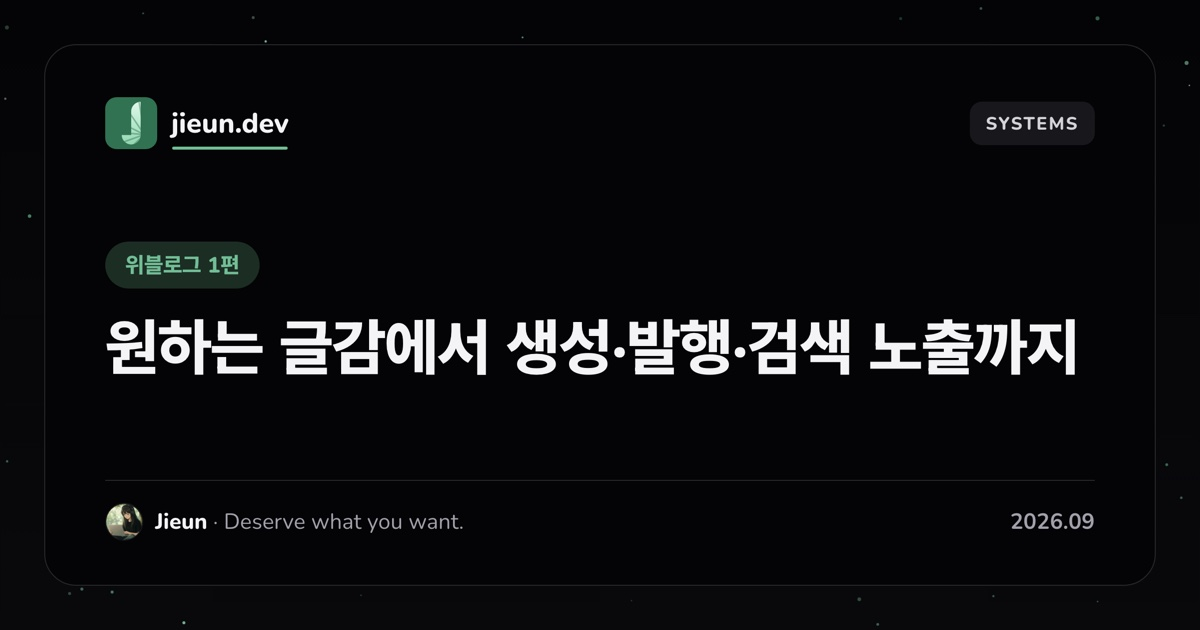
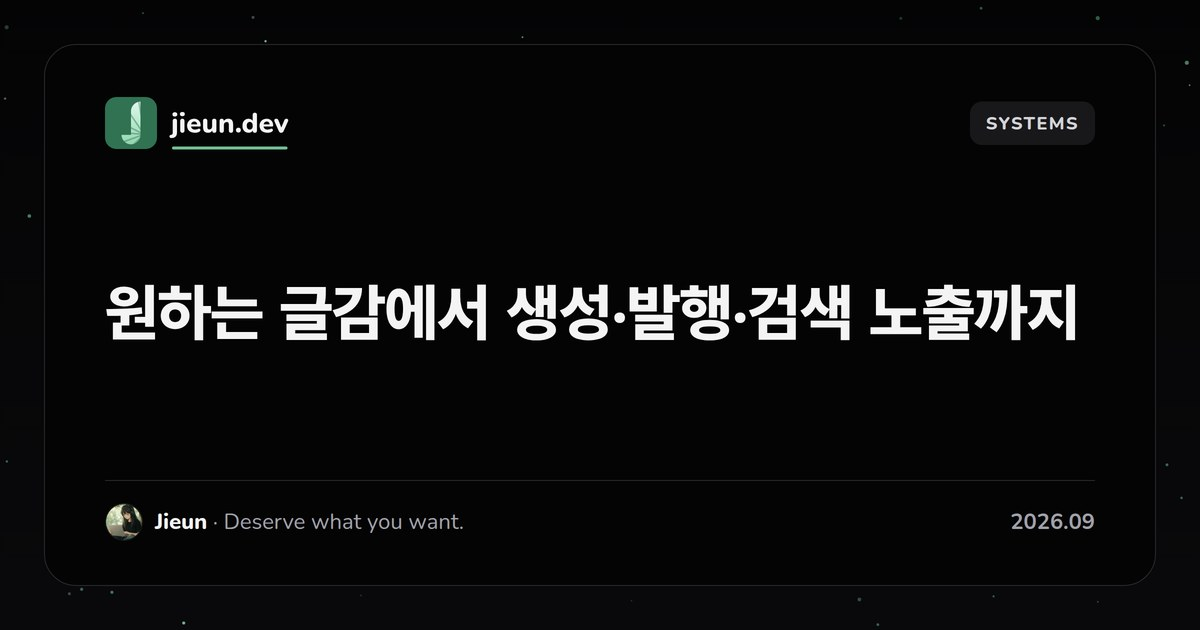
style: lighten post navigation and clarify Wiblog series

diff --git a/docs/writing/readable-ai-titles-cover.md b/docs/writing/readable-ai-titles-cover.md
@@ -47,3 +47,16 @@ Create a minimalist, sophisticated Korean tech blog thumbnail, landscape 16:9. S
 ```text
 Create a replacement blog cover using the attached image ONLY as the exact visual style reference. Match its flat dark-navy engineering report aesthetic: solid #101722 background, slate gray geometric bars, restrained periwinkle/blue accents, fine separator rules, flush-left typography, wide margins. New subject is AI title generation. Landscape 16:9. NOT a cute illustration or centered document icon. No 3D, no glow, no shadows, no textures. Text must be modest, NOT giant: heading only 4.5% of canvas height, all other Korean labels 2.5–3% height. Top-left small tracked eyebrow "TITLE GENERATION / GROK". Below at left one modest white headline "읽히는 제목으로". Middle of image: a quiet full-width slate horizontal band with centered text "입력 + 검증된 목차". Below it a tiny explanatory label "내용에 맞춰 형식 선택" and very thin connector lines branching from the band into three equally sized wide low rectangular blue-toned blocks along one row, with labels "질문형", "정보형", "후기형". This is a process schematic, not a statistical chart. Keep 50% of layout as breathing room. No giant article title, no example real-estate titles, no percentages, no numeric data or price symbols. Bottom fine horizontal rule like reference and small footer left "의미 판단은 Grok · 보존 규칙은 코드" and bottom-right "jieun.dev". Muted sophisticated palette very close to reference, uniform clean Korean sans-serif, exact Korean text. The graphic should feel like another cover in the reference's same engineering report series, with smaller typography.
 ```
+
+
+## v5: 한글 오타 수정
+
+- 도구: image_gen, v4 이미지를 참조한 편집
+- 결과: public/covers/readable-ai-titles-v5.png
+- 변경: 중앙 문구를 `입력 + 검증된 목차`로 재생성. 기존 색·배치·글자 크기 유지.
+
+### 편집 프롬프트
+
+```text
+Edit the provided blog cover, preserving its exact navy and blue report design, layout, dimensions, typography sizes, whitespace and all other text. Correct ONLY the central slate bar's Korean text to exactly: '입력 + 검증된 목차'. The critical word is 검증된 (syllables 검 / 증 / 된), NOT 검종된 or 검중된. Render 증 with the proper ㅈ + ㅡ + ㅇ glyph, crisp clean Korean typography. Preserve small restrained text size; do not enlarge headings. All other labels unchanged: 읽히는 제목으로; 내용에 맞춰 형식 선택; 질문형; 정보형; 후기형; 의미 판단은 Grok · 보존 규칙은 코드; jieun.dev.
+```

diff --git a/src/content/blog/ko/from-content-automation-poc-to-product-pivot.md b/src/content/blog/ko/from-content-automation-poc-to-product-pivot.md
@@ -1,5 +1,5 @@
 ---
-title: "[위블로그 1편] 원하는 글감에서 생성·발행·검색 노출까지"
+title: "원하는 글감에서 생성·발행·검색 노출까지"
 description: "위블로그에서 사용자가 원하는 글감을 바탕으로 출처가 있는 글을 생성·발행하고, 구글 검색에 노출되는지 확인한 과정을 소개합니다."
 subtitle: "위블로그에서 사용자가 원하는 글감을 바탕으로 자료와 출처를 확보하고 글을 생성·발행했습니다. 커스텀 도메인을 연결한 뒤 구글 검색 노출을 확인하기까지의 흐름과 한계를 소개합니다."
 pubDate: 2026-09-18
@@ -11,7 +11,7 @@ coverAlt: "글감별 설명·목차·출처와 발행 대기 상태를 보여주
 coverCaption: "생성된 글감의 설명·목차·출처를 검토하고, 예약 또는 즉시 발행으로 이어지는 위블로그 화면입니다."
 series: wiblog-development
 seriesOrder: 1
-seriesTitle: "위블로그 개발기"
+seriesTitle: "위블로그 제품 개발과 방향 전환"
 ---
 
 <a id="1-베타-전--검색-결과에-들어갈-수-있나"></a>

diff --git a/src/content/blog/ko/redefining-ai-blog-product-after-beta-feedback.md b/src/content/blog/ko/redefining-ai-blog-product-after-beta-feedback.md
@@ -1,5 +1,5 @@
 ---
-title: "[위블로그 2편] 베타 사용자 반응으로 제품 방향을 다시 정하기"
+title: "베타 사용자 반응으로 제품 방향을 다시 정하기"
 description: "위블로그 베타에서 실제 사용자의 질문과 행동을 보며, 고객 가설과 온보딩, B2C/B2B 방향, 제공 가치를 다시 정의한 과정을 정리했습니다."
 subtitle: "위블로그 베타에서 실제 사용자의 질문과 행동은 처음 세운 고객 가설과 달랐습니다. 이 차이가 온보딩과 B2C/B2B 방향, 제공 가치의 재정의로 이어진 과정을 돌아봅니다."
 pubDate: 2026-09-23
@@ -11,7 +11,7 @@ coverAlt: "B2C와 B2B 방향성을 화이트보드에 나눠 적으며 위블로
 coverCaption: "2026년 9월, B2C와 B2B 비즈니스 방향성을 비교하던 자리."
 series: wiblog-development
 seriesOrder: 2
-seriesTitle: "위블로그 개발기"
+seriesTitle: "위블로그 제품 개발과 방향 전환"
 ---
 
 ## 들어가며

diff --git a/src/content/blog/en/from-content-automation-poc-to-product-pivot.md b/src/content/blog/en/from-content-automation-poc-to-product-pivot.md
@@ -1,5 +1,5 @@
 ---
-title: "[Wiblog Part 1] From Topic Idea to Generated, Published, Search-Visible Content"
+title: "From Topic Idea to Generated, Published, Search-Visible Content"
 description: "How Wiblog took a user's topic idea, collected sources, generated a post, published it, and observed whether Google and AI crawlers could discover it."
 subtitle: "From topic ideas to publishing and search visibility"
 pubDate: 2026-09-18
@@ -11,7 +11,7 @@ coverAlt: "The Wiblog personal console showing the flow from keyword selection t
 coverCaption: "The personal console flow from choosing a keyword to publishing."
 series: wiblog-development
 seriesOrder: 1
-seriesTitle: "Building Wiblog"
+seriesTitle: "Wiblog Product Development and Pivot"
 ---
 
 <a id="1-before-the-beta--can-a-post-make-it-into-search-results"></a>

diff --git a/src/content/blog/en/redefining-ai-blog-product-after-beta-feedback.md b/src/content/blog/en/redefining-ai-blog-product-after-beta-feedback.md
@@ -1,5 +1,5 @@
 ---
-title: "[Wiblog Part 2] Redefining the Product Direction After Beta Feedback"
+title: "Redefining the Product Direction After Beta Feedback"
 description: "How beta users' questions and behavior changed Wiblog's customer hypothesis, onboarding, B2C/B2B direction, and value proposition."
 pubDate: 2026-09-23
 updatedDate: 2026-09-23
@@ -10,7 +10,7 @@ coverAlt: "A whiteboard discussion comparing B2C and B2B directions for Wiblog"
 coverCaption: "September 2026, comparing B2C and B2B business directions."
 series: wiblog-development
 seriesOrder: 2
-seriesTitle: "Building Wiblog"
+seriesTitle: "Wiblog Product Development and Pivot"
 ---
 
 ## Introduction
